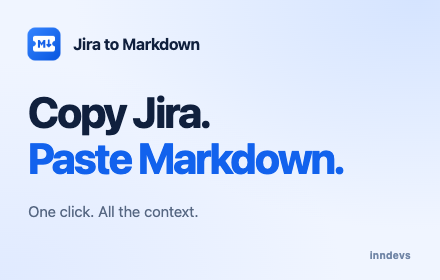
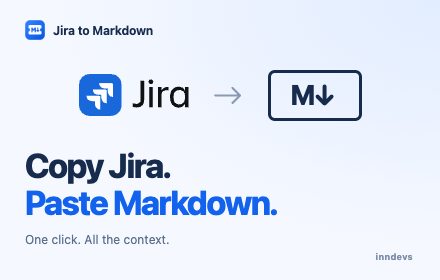
Use official Jira artwork in realistic store previews

diff --git a/store/screenshot.html b/store/screenshot.html
@@ -3,62 +3,109 @@
 <head>
   <meta charset="utf-8">
   <meta name="viewport" content="width=device-width, initial-scale=1">
-  <title>Jira to Markdown — fictional store demo</title>
+  <title>Jira to Markdown — fictional Jira workspace</title>
   <style>
-    :root { color-scheme: light; font-family: -apple-system, BlinkMacSystemFont, "Segoe UI", sans-serif; color: #10203d; background: #f0f5ff; }
+    :root { color-scheme: light; font-family: -apple-system, BlinkMacSystemFont, "Segoe UI", sans-serif; color: #172b4d; background: #eef2f8; }
     * { box-sizing: border-box; }
     body { width: 1280px; height: 800px; margin: 0; overflow: hidden; }
-    .canvas { position: relative; width: 100%; height: 100%; padding: 39px 58px; background: radial-gradient(ellipse at 86% 2%, #d7e5ff 0%, transparent 48%), radial-gradient(ellipse at 5% 91%, #e2eaff 0%, transparent 50%); }
-    .brand { display: flex; align-items: center; gap: 9px; font-size: 17px; font-weight: 700; letter-spacing: -.4px; }
-    .brand img { width: 39px; height: 39px; }
-    h1 { margin: 31px 0 15px; font-size: 65px; line-height: 1.055; letter-spacing: -3.5px; font-weight: 750; }
-    h1 span { color: #1262ed; }
-    .intro { margin: 0; font-size: 19px; line-height: 1.5; color: #566782; letter-spacing: -.25px; }
-    .preview { position: absolute; left: 64px; top: 353px; width: 697px; height: 350px; padding: 24px 26px; background: #fff; border: 1px solid #d6e0f2; border-radius: 17px; box-shadow: 0 16px 44px #1c438910, 0 2px 4px #1c438904; }
-    .preview-label { display: flex; justify-content: space-between; align-items: center; margin-bottom: 16px; font-size: 10px; line-height: 1; font-weight: 700; letter-spacing: 1.2px; text-transform: uppercase; color: #70819e; }
-    .markdown-mark { font-family: ui-monospace, SFMono-Regular, monospace; font-size: 13px; line-height: 18px; letter-spacing: -.8px; color: #1262ed; }
-    .preview h2 { margin: 0 0 9px; font-size: 19px; line-height: 1.3; letter-spacing: -.5px; font-weight: 700; }
-    .preview h2 .issue-key { color: #1262ed; }
-    .preview h3 { margin: 15px 0 8px; color: #283e5f; font-size: 12px; font-weight: 700; }
-    .preview p { margin: 0; font-size: 12px; line-height: 1.5; color: #63738b; }
-    .preview table { width: 100%; border-collapse: collapse; font-size: 10px; line-height: 1.35; color: #435571; table-layout: auto; }
-    .preview th { padding: 7px 8px; background: #f4f7fd; text-align: left; font-weight: 650; color: #63748f; border-bottom: 1px solid #e1e8f4; white-space: nowrap; }
-    .preview th:first-child { border-radius: 5px 0 0 0; }
-    .preview th:last-child { border-radius: 0 5px 0 0; }
-    .preview td { padding: 8px; border-bottom: 1px solid #e9eef7; vertical-align: top; }
+    .canvas { position: relative; width: 100%; height: 100%; }
+    .marketing { height: 30px; display: flex; align-items: center; justify-content: space-between; padding: 0 32px; background: #fff; border-bottom: 1px solid #e5e9f0; }
+    .brand { display: flex; align-items: center; gap: 6px; font-size: 11px; font-weight: 700; letter-spacing: -.15px; }
+    .brand img { width: 23px; height: 23px; }
+    .marketing h1 { margin: 0; font-size: 14px; font-weight: 650; letter-spacing: -.3px; color: #33506e; }
+    .marketing h1 span { color: #1262ed; }
+    .browser { position: absolute; left: 20px; top: 30px; width: 1240px; height: 728px; overflow: hidden; border: 1px solid #bcc6d4; border-radius: 10px; background: #fff; box-shadow: 0 8px 24px #243c5b12; }
+    .tabs { height: 21px; display: flex; align-items: center; gap: 7px; padding-left: 12px; background: #dfe4ec; }
+    .traffic { display: flex; gap: 5px; margin-right: 10px; }
+    .traffic i { width: 7px; height: 7px; background: #ef7167; border-radius: 50%; }
+    .traffic i:nth-child(2) { background: #edbf50; }
+    .traffic i:nth-child(3) { background: #67bd63; }
+    .tab { width: 246px; height: 19px; display: flex; gap: 7px; align-items: center; padding: 0 11px; border-radius: 7px 7px 0 0; background: #f8fafd; font-size: 8px; color: #3c4858; }
+    .tab img { width: 11px; height: 11px; }
+    .tab .close { margin-left: auto; font-size: 12px; color: #6c7888; }
+    .new-tab { color: #68768a; font-size: 14px; }
+    .toolbar { height: 32px; display: flex; gap: 11px; align-items: center; padding: 0 13px; color: #657184; background: #f8fafd; border-bottom: 1px solid #dce2ec; }
+    .toolbar .navigation { display: flex; gap: 12px; font-size: 15px; }
+    .address { height: 22px; flex: 1; border-radius: 14px; display: flex; gap: 8px; align-items: center; padding: 0 11px; font-size: 10px; color: #43526a; background: #e9edf3; }
+    .address .site-control { font-size: 13px; color: #52647b; }
+    .extension-action { width: 27px; height: 25px; display: grid; place-items: center; background: #dce8ff; border-radius: 5px; }
+    .extension-action img { width: 21px; height: 21px; }
+    .toolbar .profile { width: 19px; height: 19px; display: grid; place-items: center; border-radius: 50%; background: #6b58bb; color: #fff; font-size: 9px; }
+    .toolbar .dots { font-size: 18px; line-height: 1; }
+    .jira-nav { height: 48px; display: flex; align-items: center; gap: 19px; padding: 0 17px; border-bottom: 1px solid #dfe4ed; font-size: 11px; font-weight: 500; color: #44546f; }
+    .app-switcher { font-size: 17px; line-height: 1; color: #44546f; letter-spacing: -3px; padding-right: 4px; }
+    .jira-logo { width: 62px; height: 24px; object-fit: contain; margin-left: -7px; }
+    .jira-nav .caret { font-size: 8px; margin-left: 3px; color: #6c7b91; }
+    .create { border: 0; background: #0c66e4; color: #fff; border-radius: 3px; padding: 6px 10px; font: 600 10px/1.2 -apple-system, BlinkMacSystemFont, "Segoe UI", sans-serif; }
+    .jira-search { margin-left: auto; border: 1px solid #c6cedb; width: 156px; height: 25px; border-radius: 4px; padding: 5px 8px; color: #7a8699; font-size: 10px; }
+    .nav-avatar { border-radius: 50%; width: 25px; height: 25px; display: grid; place-items: center; background: #dcd2f8; color: #6554a4; font-size: 10px; font-weight: 700; }
+    .sidebar { position: absolute; top: 101px; bottom: 0; left: 0; width: 184px; background: #f7f8fa; border-right: 1px solid #e5e8ef; padding: 22px 14px; }
+    .project { display: flex; align-items: center; gap: 8px; margin-bottom: 27px; }
+    .project-icon { width: 29px; height: 29px; display: grid; place-items: center; border-radius: 5px; background: #d8e7ff; color: #0c66e4; font-size: 15px; font-weight: 700; }
+    .project strong { display: block; font-size: 11px; font-weight: 650; }
+    .project small { display: block; margin-top: 2px; font-size: 9px; color: #7a869a; }
+    .sidebar .section-label { font-size: 8px; font-weight: 700; letter-spacing: .55px; color: #7c879b; margin: 19px 0 8px 8px; }
+    .sidebar .item { display: flex; align-items: center; gap: 11px; padding: 9px 9px; margin-bottom: 3px; border-radius: 4px; font-size: 11px; color: #43546e; }
+    .sidebar .item.active { background: #e9f2ff; color: #0c66e4; font-weight: 600; }
+    .sidebar .item .glyph { width: 14px; font-size: 14px; line-height: 1; text-align: center; color: #65758b; }
+    .sidebar .item.active .glyph { color: #0c66e4; }
+    .sidebar .settings { position: absolute; left: 14px; right: 14px; bottom: 14px; border-top: 1px solid #e0e5ed; padding-top: 13px; }
+    .issue { position: absolute; left: 213px; top: 124px; width: 608px; }
+    .breadcrumb { font-size: 10px; color: #6b778c; display: flex; align-items: center; gap: 8px; margin-bottom: 15px; }
+    .task-icon { width: 12px; height: 12px; display: inline-grid; place-items: center; border-radius: 2px; background: #4bade8; color: white; font-size: 8px; font-weight: 700; }
+    .issue h2 { margin: 0 0 14px; font-size: 22px; font-weight: 600; letter-spacing: -.5px; line-height: 1.25; color: #172b4d; }
+    .issue-tools { display: flex; align-items: center; gap: 8px; margin-bottom: 22px; }
+    .issue-tools button { display: flex; align-items: center; gap: 5px; font: 500 10px/1.1 -apple-system, BlinkMacSystemFont, "Segoe UI", sans-serif; border: 1px solid #d7dce5; border-radius: 4px; background: #fff; padding: 6px 8px; color: #44546f; }
+    .issue-tools .status { background: #e9f2ff; color: #0c66e4; border-color: #d8e8ff; font-weight: 650; margin-left: auto; }
+    .issue h3 { font-size: 12px; margin: 0 0 10px; font-weight: 650; color: #172b4d; }
+    .issue p { font-size: 11px; line-height: 1.6; margin: 0; color: #44546f; }
+    .issue .description { max-width: 500px; margin-bottom: 20px; }
+    .issue .attachment { display: inline-flex; align-items: center; gap: 8px; margin: 11px 0 19px; padding: 6px 10px; border: 1px solid #dfe4ed; border-radius: 5px; font-size: 10px; color: #526680; }
+    .issue .attachment span { color: #6a7a92; font-size: 9px; }
+    .activity-heading { display: flex; align-items: center; gap: 15px; margin-bottom: 10px; }
+    .activity-heading h3 { margin: 0; }
+    .activity-tab { font-size: 10px; color: #0c66e4; font-weight: 600; }
+    .comment { display: flex; align-items: flex-start; gap: 9px; }
+    .avatar { flex: 0 0 25px; height: 25px; display: grid; place-items: center; border-radius: 50%; background: #e6ddfb; color: #6554a4; font-size: 9px; font-weight: 650; }
+    .comment .byline { margin-bottom: 3px; font-size: 10px; font-weight: 650; color: #344563; }
+    .comment time { margin-left: 8px; font-size: 9px; color: #8993a4; font-weight: 400; }
+    .comment p { font-size: 10px; color: #596a82; }
+    .preview { position: absolute; left: 228px; top: 451px; width: 613px; height: 285px; padding: 16px 18px; background: #fff; border: 1px solid #cbd8eb; border-radius: 9px; box-shadow: 0 12px 35px #12386820, 0 2px 5px #12386807; }
+    .preview-label { display: flex; justify-content: space-between; align-items: center; margin-bottom: 10px; font-size: 9px; line-height: 1; font-weight: 650; color: #6b7c98; }
+    .preview-label .notes-title { display: flex; align-items: center; gap: 6px; }
+    .preview-label .notes-title svg { width: 13px; height: 13px; color: #1262ed; }
+    .markdown-mark { font-family: ui-monospace, SFMono-Regular, monospace; font-size: 11px; letter-spacing: -.8px; color: #2d486a; }
+    .preview h2 { margin: 0 0 6px; font-size: 15px; line-height: 1.3; letter-spacing: -.35px; font-weight: 650; }
+    .preview h3 { margin: 10px 0 5px; color: #283e5f; font-size: 10px; font-weight: 650; }
+    .preview p { margin: 0; font-size: 10px; line-height: 1.4; color: #63738b; }
+    .preview table { width: 100%; border-collapse: collapse; font-size: 9px; line-height: 1.35; color: #435571; table-layout: auto; }
+    .preview th { padding: 5px 6px; background: #f3f6fc; text-align: left; font-weight: 600; color: #63748f; border-bottom: 1px solid #e1e8f4; white-space: nowrap; }
+    .preview td { padding: 6px; border-bottom: 1px solid #e9eef7; vertical-align: top; }
     .preview td:first-child { white-space: nowrap; }
     .preview a { color: #1262ed; text-decoration: none; }
-    .preview code { font: 10px/1.35 ui-monospace, SFMono-Regular, monospace; }
-    .popup-shell { position: absolute; top: 86px; left: 834px; width: 382px; overflow: hidden; border: 1px solid #cbd8ee; border-radius: 17px; background: #f7f9fe; box-shadow: 0 26px 65px #16366c20, 0 3px 8px #16366c08; }
+    .preview code { font: 9px/1.35 ui-monospace, SFMono-Regular, monospace; }
+    .popup-shell { position: absolute; top: 84px; left: 866px; width: 382px; overflow: hidden; border: 1px solid #b9c7da; border-radius: 0 0 10px 10px; background: #f7f9fe; box-shadow: 0 12px 38px #10294d30, 0 2px 5px #10294d12; }
     iframe { display: block; width: 380px; height: 650px; border: 0; background: #f7f9fe; }
-    .popup-label { position: absolute; top: 59px; left: 836px; margin: 0; font-size: 10px; line-height: 1; font-weight: 700; letter-spacing: 1.4px; color: #71839f; text-transform: uppercase; }
-    .connector { position: absolute; left: 780px; top: 478px; color: #3474e9; }
-    .connector svg { width: 29px; height: 29px; }
-    .benefit { position: absolute; left: 65px; top: 722px; display: flex; gap: 8px; align-items: center; font-size: 13px; color: #405c89; }
-    .benefit svg { width: 17px; height: 17px; color: #1262ed; }
-    footer { position: absolute; bottom: 24px; left: 65px; right: 65px; display: flex; justify-content: space-between; font-size: 10px; letter-spacing: .1px; color: #8594ab; }
-    footer span:last-child { font-weight: 700; color: #5d7499; }
+    footer { position: absolute; bottom: 16px; left: 28px; right: 28px; display: flex; justify-content: space-between; font-size: 10px; color: #7f8da3; }
+    footer .maker { color: #526b8e; font-weight: 650; }
   </style>
 </head>
 <body>
   <main class="canvas">
-    <div class="brand"><img src="../icons/icon128.png" alt="">Jira to Markdown</div>
-    <h1>Copy Jira.<br><span>Paste Markdown.</span></h1>
-    <p class="intro">The issue, the discussion, the code.<br>Ready for your notes, docs, and AI tools.</p>
-    <article class="preview" aria-label="Formatted excerpt from the generated Markdown">
-      <div class="preview-label"><span>Your Markdown, ready to paste</span><span class="markdown-mark" aria-hidden="true">[M↓]</span></div>
-      <h2 id="output-title"></h2>
-      <p id="output-description"></p>
-      <h3>Pull requests</h3>
-      <div id="output-pull-requests"></div>
-      <h3>Commits</h3>
-      <div id="output-commits"></div>
+    <div class="marketing"><div class="brand"><img src="../icons/icon128.png" alt="">Jira to Markdown</div><h1>Copy Jira. <span>Paste Markdown.</span></h1></div>
+    <div class="browser" aria-label="Fictional Jira workspace in a Chrome browser">
+      <div class="tabs"><div class="traffic"><i></i><i></i><i></i></div><div class="tab"><img src="assets/jira-icon.svg" alt="">DEMO-42 · Refresh the project handbook<span class="close">×</span></div><span class="new-tab">+</span></div>
+      <div class="toolbar"><div class="navigation"><span>‹</span><span>›</span><span>⟳</span></div><div class="address"><span class="site-control">⊜</span>jira.example.org/browse/DEMO-42</div><div class="extension-action"><img src="../icons/icon32.png" alt="Jira to Markdown extension"></div><span>♧</span><span class="profile">D</span><span class="dots">⋮</span></div>
+      <nav class="jira-nav" aria-label="Demo Jira navigation"><span class="app-switcher">⠿</span><img class="jira-logo" src="assets/jira-logo.svg" alt="Jira"><span>Your work<span class="caret">⌄</span></span><span>Projects<span class="caret">⌄</span></span><span>Filters<span class="caret">⌄</span></span><span>Dashboards<span class="caret">⌄</span></span><span>Teams<span class="caret">⌄</span></span><span>Apps<span class="caret">⌄</span></span><button class="create">Create</button><div class="jira-search">⌕ &nbsp; Search</div><span>?</span><span class="nav-avatar">DT</span></nav>
+      <aside class="sidebar"><div class="project"><div class="project-icon">D</div><div><strong>Demo workspace</strong><small>Software project</small></div></div><div class="section-label">PLANNING</div><div class="item"><span class="glyph">▦</span>Summary</div><div class="item"><span class="glyph">☷</span>Backlog</div><div class="item"><span class="glyph">▤</span>Board</div><div class="item active"><span class="glyph">✓</span>Issues</div><div class="item"><span class="glyph">▱</span>Calendar</div><div class="section-label">DEVELOPMENT</div><div class="item"><span class="glyph">⌘</span>Code</div><div class="item"><span class="glyph">↗</span>Releases</div><div class="item"><span class="glyph">▧</span>Project pages</div><div class="settings item"><span class="glyph">⚙</span>Project settings</div></aside>
+      <section class="issue"><div class="breadcrumb">Projects <span>/</span> Demo workspace <span>/</span><span class="task-icon">✓</span> DEMO-42</div><h2>Refresh the project handbook</h2><div class="issue-tools"><button>＋ Attach</button><button>⌁ Link issue</button><button>···</button><button class="status">In progress ⌄</button></div><h3>Description</h3><p class="description">Make answers easier to find. Keep the release checklist close.</p><div class="attachment">▤ &nbsp; handbook-outline.pdf <span>18.4 kB</span></div><div class="activity-heading"><h3>Activity</h3><span class="activity-tab">Comments</span><span style="font-size:10px;color:#7a8699">History</span></div><div class="comment"><div class="avatar">DT</div><div><div class="byline">Demo teammate<time>15 Jan 2026</time></div><p>The draft is ready for a review.</p></div></div></section>
+    </div>
+    <article class="preview" aria-label="Formatted excerpt from the copied Markdown">
+      <div class="preview-label"><span class="notes-title"><svg viewBox="0 0 16 16" fill="none" stroke="currentColor" stroke-width="1.2"><path d="M4 2h6l3 3v9H3V2Z"/><path d="M9 2v4h4M5 8h6M5 10h6"/></svg>Pasted Markdown</span><span class="markdown-mark" aria-hidden="true">[M↓]</span></div>
+      <h2 id="output-title"></h2><p id="output-description"></p><h3>Pull requests</h3><div id="output-pull-requests"></div><h3>Commits</h3><div id="output-commits"></div>
     </article>
-    <div class="connector" aria-hidden="true"><svg viewBox="0 0 24 24" fill="none" stroke="currentColor" stroke-width="1.8" stroke-linecap="round" stroke-linejoin="round"><path d="M20 12H4m6-6-6 6 6 6"/></svg></div>
-    <p class="popup-label">One click. All the context.</p>
     <div class="popup-shell"><iframe id="popup" src="../popup.html" title="Actual Jira to Markdown popup, with fictional issue data"></iframe></div>
-    <div class="benefit"><svg viewBox="0 0 24 24" fill="none" stroke="currentColor" stroke-width="1.8" stroke-linecap="round" stroke-linejoin="round" aria-hidden="true"><circle cx="12" cy="12" r="9"/><path d="m8 12 3 3 5-6"/></svg>Choose what to include. Your preferences stay saved.</div>
-    <footer><span>Fictional example · Actual extension interface</span><span>inndevs</span></footer>
+    <footer><span>Demo Jira workspace · Actual extension popup</span><span class="maker">inndevs</span></footer>
   </main>
   <script>
     const iframe = document.getElementById('popup');

diff --git a/store/promo.html b/store/promo.html
@@ -5,21 +5,26 @@
   <meta name="viewport" content="width=device-width, initial-scale=1">
   <title>Jira to Markdown — store promotional tile</title>
   <style>
-    :root { color-scheme: light; font-family: -apple-system, BlinkMacSystemFont, "Segoe UI", sans-serif; color: #10203d; background: #f0f5ff; }
+    :root { color-scheme: light; font-family: -apple-system, BlinkMacSystemFont, "Segoe UI", sans-serif; color: #172b4d; background: #f5f8ff; }
     * { box-sizing: border-box; }
     body { width: 440px; height: 280px; margin: 0; overflow: hidden; }
-    .canvas { position: relative; width: 100%; height: 100%; padding: 22px 28px; background: radial-gradient(ellipse at 95% 0%, #d5e4ff 0%, transparent 58%), radial-gradient(ellipse at 0% 100%, #e0eaff 0%, transparent 55%); }
-    .brand { display: flex; align-items: center; gap: 7px; height: 44px; margin-left: -6px; font-size: 16px; font-weight: 700; letter-spacing: -.45px; }
-    .brand img { width: 44px; height: 44px; }
-    h1 { margin: 23px 0 0; font-size: 43px; line-height: 1.08; letter-spacing: -2px; font-weight: 750; }
+    .canvas { position: relative; width: 100%; height: 100%; padding: 17px 25px; background: radial-gradient(ellipse at 100% 0%, #e2edff 0%, transparent 62%); }
+    .brand { display: flex; align-items: center; gap: 5px; font-size: 12px; font-weight: 700; letter-spacing: -.25px; }
+    .brand img { width: 26px; height: 26px; margin-left: -3px; }
+    .flow { display: flex; align-items: center; justify-content: center; gap: 24px; margin-top: 26px; height: 52px; }
+    .jira { width: 110px; height: 43px; object-fit: contain; }
+    .arrow { width: 31px; height: 23px; color: #8999b0; }
+    .markdown { display: grid; place-items: center; width: 94px; height: 51px; border: 3px solid #172b4d; border-radius: 7px; color: #172b4d; font-size: 28px; font-weight: 800; letter-spacing: -2.5px; padding-right: 4px; line-height: 1; }
+    h1 { margin: 26px 0 0; font-size: 34px; line-height: 1.08; letter-spacing: -1.5px; font-weight: 750; }
     h1 span { display: block; color: #1262ed; }
-    .tagline { margin: 19px 0 0; font-size: 15px; line-height: 1.4; letter-spacing: -.15px; color: #566782; }
-    .maker { position: absolute; right: 29px; bottom: 19px; margin: 0; font-size: 10px; font-weight: 700; letter-spacing: .2px; color: #7085a6; }
+    .tagline { margin: 12px 0 0; font-size: 12px; line-height: 1.3; color: #5a6f8c; }
+    .maker { position: absolute; right: 27px; bottom: 18px; margin: 0; font-size: 9px; font-weight: 700; letter-spacing: .15px; color: #7d8ea7; }
   </style>
 </head>
 <body data-asset="promo">
   <main class="canvas">
     <div class="brand" data-fit><img src="../icons/icon128.png" alt="">Jira to Markdown</div>
+    <div class="flow" data-fit><img class="jira" src="assets/jira-logo.svg" alt="Jira"><svg class="arrow" viewBox="0 0 32 24" fill="none" stroke="currentColor" stroke-width="2" stroke-linecap="round" stroke-linejoin="round" aria-hidden="true"><path d="M2 12h26m-8-8 8 8-8 8"/></svg><span class="markdown" aria-label="Markdown">M↓</span></div>
     <h1 data-fit>Copy Jira.<span>Paste Markdown.</span></h1>
     <p class="tagline" data-fit>One click. All the context.</p>
     <p class="maker" data-fit>inndevs</p>

diff --git a/store/assets/SOURCES.md b/store/assets/SOURCES.md
@@ -1,0 +1,12 @@
+# Jira assets
+
+Downloaded on 17 November 2026 from the [Atlassian Design logo library](https://atlassian.design/foundations/logos), reached through its [previous logo-library URL](https://atlassian.design/resources/logo-library/).
+
+Archive: [Official Jira app logos](https://atlassian.design/assets/a92416454bd0/logos/jira_app.zip).
+
+| Local file | Original path in the archive | Dimensions |
+| --- | --- | --- |
+| `jira-logo.svg` | `jira/SVG/Jira_logo_light.svg` | 124 × 48 |
+| `jira-icon.svg` | `jira/SVG/Jira_icon.svg` | 48 × 48 |
+
+Both SVGs are preserved byte-for-byte from the official archive. They appear in the store screenshots and promotional artwork.
